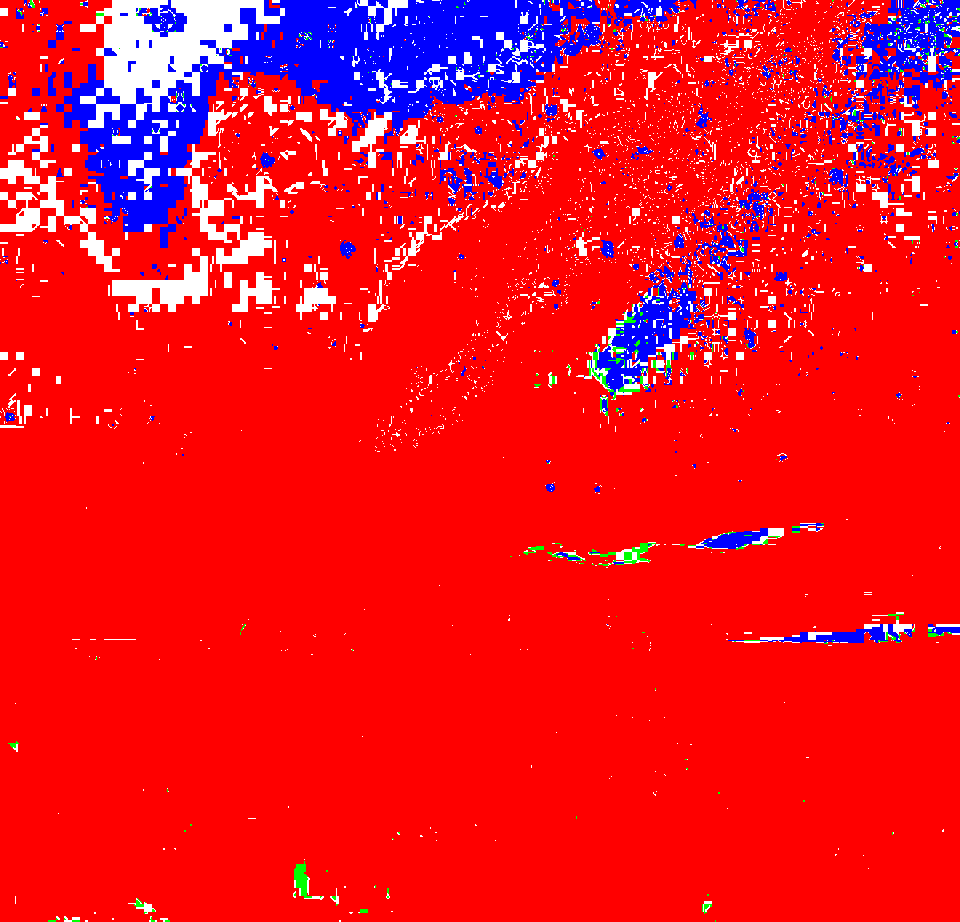
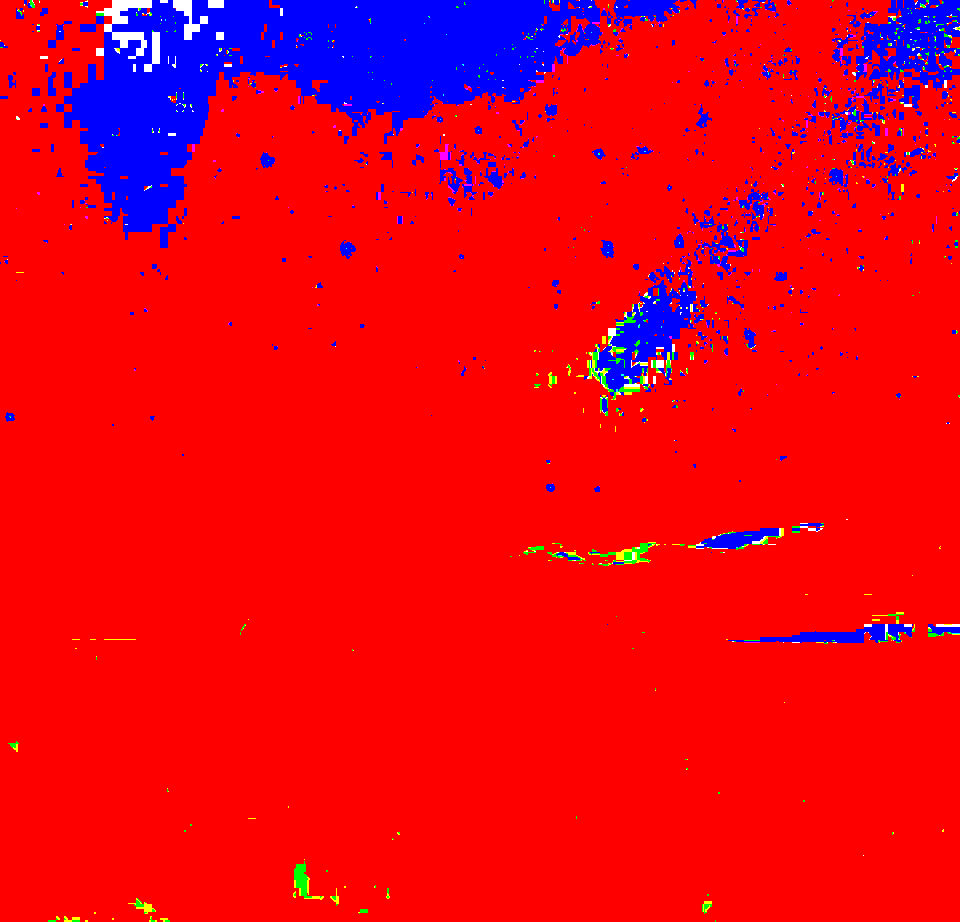
need to fix highlight yellow, purple, cyan

diff --git a/EDIT.py b/EDIT.py
@@ -5,103 +5,214 @@ class Edit:
     def HUE_IMG(IMG_NAME, HUE):
         IMG_PATH = f'output\\DIR-{IMG_NAME}\\{IMG_NAME}'
         IMG_BGR = cv2.imread(IMG_PATH)
+
         IMG_HSV = cv2.cvtColor(IMG_BGR, cv2.COLOR_BGR2HSV)
         IMG_HSV[..., 0] = (IMG_HSV[..., 0] + HUE) % 180
         IMG_BGR = cv2.cvtColor(IMG_HSV, cv2.COLOR_HSV2BGR)
+
         HUE_PATH = f'output\\DIR-{IMG_NAME}\\HUE\\HUE-{HUE}-{IMG_NAME}'
         cv2.imwrite(HUE_PATH, IMG_BGR)
 
     def RED_IMG(IMG_NAME):
         IMG_PATH = f'output\\DIR-{IMG_NAME}\\{IMG_NAME}'
         IMG_BGR = cv2.imread(IMG_PATH)
+
         B, G, R = cv2.split(IMG_BGR)
         B = np.clip(B * 0, 0, 255).astype(np.uint8)
         G = np.clip(G * 0, 0, 255).astype(np.uint8)
         IMG_RED = cv2.merge([B, G, R])
+
         RED_PATH = f'output\\DIR-{IMG_NAME}\\COL\\RED-{IMG_NAME}'
         cv2.imwrite(RED_PATH, IMG_RED)
 
     def GRE_IMG(IMG_NAME):
         IMG_PATH = f'output\\DIR-{IMG_NAME}\\{IMG_NAME}'
         IMG_BGR = cv2.imread(IMG_PATH)
+
         B, G, R = cv2.split(IMG_BGR)
         B = np.clip(B * 0, 0, 255).astype(np.uint8)
         R = np.clip(R * 0, 0, 255).astype(np.uint8)
         IMG_GRE = cv2.merge([B, G, R])
+
         GRE_PATH = f'output\\DIR-{IMG_NAME}\\COL\\GRE-{IMG_NAME}'
         cv2.imwrite(GRE_PATH, IMG_GRE)
 
     def BLU_IMG(IMG_NAME):
         IMG_PATH = f'output\\DIR-{IMG_NAME}\\{IMG_NAME}'
         IMG_BGR = cv2.imread(IMG_PATH)
+
         B, G, R = cv2.split(IMG_BGR)
         G = np.clip(G * 0, 0, 255).astype(np.uint8)
         R = np.clip(R * 0, 0, 255).astype(np.uint8)
         IMG_BLU = cv2.merge([B, G, R])
+
         BLU_PATH = f'output\\DIR-{IMG_NAME}\\COL\\BLU-{IMG_NAME}'
         cv2.imwrite(BLU_PATH, IMG_BLU)
-
-    def PUR_IMG(IMG_NAME):
-        IMG_PATH = f'output\\DIR-{IMG_NAME}\\{IMG_NAME}'
-        IMG_BGR = cv2.imread(IMG_PATH)
-        B, G, R = cv2.split(IMG_BGR)
-        G = np.clip(G * 0, 0, 255).astype(np.uint8)
-        IMG_PUR = cv2.merge([B, G, R])
-        PUR_PATH = f'output\\DIR-{IMG_NAME}\\COL\\PUR-{IMG_NAME}'
-        cv2.imwrite(PUR_PATH, IMG_PUR)
 
     def YEL_IMG(IMG_NAME):
         IMG_PATH = f'output\\DIR-{IMG_NAME}\\{IMG_NAME}'
         IMG_BGR = cv2.imread(IMG_PATH)
+
         B, G, R = cv2.split(IMG_BGR)
         B = np.clip(B * 0, 0, 255).astype(np.uint8)
         IMG_YEL = cv2.merge([B, G, R])
+
         YEL_PATH = f'output\\DIR-{IMG_NAME}\\COL\\YEL-{IMG_NAME}'
         cv2.imwrite(YEL_PATH, IMG_YEL)
+
+    def PUR_IMG(IMG_NAME):
+        IMG_PATH = f'output\\DIR-{IMG_NAME}\\{IMG_NAME}'
+        IMG_BGR = cv2.imread(IMG_PATH)
+
+        B, G, R = cv2.split(IMG_BGR)
+        G = np.clip(G * 0, 0, 255).astype(np.uint8)
+        IMG_PUR = cv2.merge([B, G, R])
+
+        PUR_PATH = f'output\\DIR-{IMG_NAME}\\COL\\PUR-{IMG_NAME}'
+        cv2.imwrite(PUR_PATH, IMG_PUR)
 
     def CYA_IMG(IMG_NAME):
         IMG_PATH = f'output\\DIR-{IMG_NAME}\\{IMG_NAME}'
         IMG_BGR = cv2.imread(IMG_PATH)
+
         B, G, R = cv2.split(IMG_BGR)
         R = np.clip(R * 0, 0, 255).astype(np.uint8)
         IMG_CYA = cv2.merge([B, G, R])
+
         CYA_PATH = f'output\\DIR-{IMG_NAME}\\COL\\CYA-{IMG_NAME}'
         cv2.imwrite(CYA_PATH, IMG_CYA)
-
-    def HLT_RED_IMG(IMG_NAME):
-        IMG_PATH = f'output\\DIR-{IMG_NAME}\\{IMG_NAME}'
-        IMG_BGR = cv2.imread(IMG_PATH)
-        HLT_RED = (IMG_BGR[:, :, 0] > IMG_BGR[:, :, 1]) & (IMG_BGR[:, :, 0] > IMG_BGR[:, :, 2])
-        IMG_BGR[HLT_RED] = [255, 0, 0]
-        HLT_RED_PATH = f'output\\DIR-{IMG_NAME}\\HLT\\HLT_RED-{IMG_NAME}'
-        cv2.imwrite(HLT_RED_PATH, IMG_BGR)
-
-    def HLT_GRE_IMG(IMG_NAME):
-        IMG_PATH = f'output\\DIR-{IMG_NAME}\\{IMG_NAME}'
-        IMG_BGR = cv2.imread(IMG_PATH)
-        HLT_GRE = (IMG_BGR[:, :, 1] > IMG_BGR[:, :, 0]) & (IMG_BGR[:, :, 1] > IMG_BGR[:, :, 2])
-        IMG_BGR[HLT_GRE] = [0, 255, 0]
-        HLT_GRE_PATH = f'output\\DIR-{IMG_NAME}\\HLT\\HLT_GRE-{IMG_NAME}'
-        cv2.imwrite(HLT_GRE_PATH, IMG_BGR)
 
     def HLT_BLU_IMG(IMG_NAME):
         IMG_PATH = f'output\\DIR-{IMG_NAME}\\{IMG_NAME}'
         IMG_BGR = cv2.imread(IMG_PATH)
-        HLT_BLU = (IMG_BGR[:, :, 2] > IMG_BGR[:, :, 0]) & (IMG_BGR[:, :, 2] > IMG_BGR[:, :, 1])
-        IMG_BGR[HLT_BLU] = [0, 0, 255]
+
+        B = IMG_BGR[:, :, 0]
+        G = IMG_BGR[:, :, 1]
+        R = IMG_BGR[:, :, 2]
+
+        HLT_BLU = (B > G) & (B > R)
+        IMG_BGR[HLT_BLU] = [255, 0, 0]
+
         HLT_BLU_PATH = f'output\\DIR-{IMG_NAME}\\HLT\\HLT_BLU-{IMG_NAME}'
         cv2.imwrite(HLT_BLU_PATH, IMG_BGR)
+
+    def HLT_GRE_IMG(IMG_NAME):
+        IMG_PATH = f'output\\DIR-{IMG_NAME}\\{IMG_NAME}'
+        IMG_BGR = cv2.imread(IMG_PATH)
+
+        B = IMG_BGR[:, :, 0]
+        G = IMG_BGR[:, :, 1]
+        R = IMG_BGR[:, :, 2]
+
+        HLT_GRE = (G > B) & (G > R)
+        IMG_BGR[HLT_GRE] = [0, 255, 0]
+        
+        HLT_GRE_PATH = f'output\\DIR-{IMG_NAME}\\HLT\\HLT_GRE-{IMG_NAME}'
+        cv2.imwrite(HLT_GRE_PATH, IMG_BGR)
+
+    def HLT_RED_IMG(IMG_NAME):
+        IMG_PATH = f'output\\DIR-{IMG_NAME}\\{IMG_NAME}'
+        IMG_BGR = cv2.imread(IMG_PATH)
+
+        B = IMG_BGR[:, :, 0]
+        G = IMG_BGR[:, :, 1]
+        R = IMG_BGR[:, :, 2]
+
+        HLT_RED = (R > B) & (R > G)
+        IMG_BGR[HLT_RED] = [0, 0, 255]
+
+        HLT_RED_PATH = f'output\\DIR-{IMG_NAME}\\HLT\\HLT_RED-{IMG_NAME}'
+        cv2.imwrite(HLT_RED_PATH, IMG_BGR)
+
+    def HLT_YEL_IMG(IMG_NAME):
+        IMG_PATH = f'output\\DIR-{IMG_NAME}\\{IMG_NAME}'
+        IMG_BGR = cv2.imread(IMG_PATH)
+
+        B = IMG_BGR[:, :, 0]
+        G = IMG_BGR[:, :, 1]
+        R = IMG_BGR[:, :, 2]
+
+        MJR_YEL = (G > B) & (R > B)
+        DIF_RED_GRE = np.abs(R - G)
+        DIF_GRE_BLU = np.abs(G - B)
+        DIF_RED_BLU = np.abs(R - B)
+
+        HLT_YEL = MJR_YEL & (DIF_RED_GRE < DIF_GRE_BLU) & (DIF_RED_GRE < DIF_RED_BLU)
+        IMG_BGR[HLT_YEL] = [0, 255, 255]
+
+        HLT_YEL_PATH = f'output\\DIR-{IMG_NAME}\\HLT\\HLT_YEL-{IMG_NAME}'
+        cv2.imwrite(HLT_YEL_PATH, IMG_BGR)
+
+    def HLT_PUR_IMG(IMG_NAME):
+        IMG_PATH = f'output\\DIR-{IMG_NAME}\\{IMG_NAME}'
+        IMG_BGR = cv2.imread(IMG_PATH)
+
+        B = IMG_BGR[:, :, 0]
+        G = IMG_BGR[:, :, 1]
+        R = IMG_BGR[:, :, 2]
+
+        MJR_PUR = (B > G) & (R > G)
+        DIF_RED_GRE = np.abs(R - G)
+        DIF_GRE_BLU = np.abs(G - B)
+        DIF_RED_BLU = np.abs(R - B)
+
+        HLT_PUR = MJR_PUR & (DIF_RED_BLU < DIF_GRE_BLU) & (DIF_RED_BLU < DIF_RED_GRE)
+        IMG_BGR[HLT_PUR] = [255, 0, 255]
+
+        HLT_PUR_PATH = f'output\\DIR-{IMG_NAME}\\HLT\\HLT_PUR-{IMG_NAME}'
+        cv2.imwrite(HLT_PUR_PATH, IMG_BGR)
+
+    def HLT_CYA_IMG(IMG_NAME):
+        IMG_PATH = f'output\\DIR-{IMG_NAME}\\{IMG_NAME}'
+        IMG_BGR = cv2.imread(IMG_PATH)
+
+        B = IMG_BGR[:, :, 0]
+        G = IMG_BGR[:, :, 1]
+        R = IMG_BGR[:, :, 2]
+
+        MJR_CYA = (B > R) & (G > R)
+        DIF_RED_GRE = np.abs(R - G)
+        DIF_GRE_BLU = np.abs(G - B)
+        DIF_RED_BLU = np.abs(R - B)
+
+        HLT_CYA = MJR_CYA & (DIF_GRE_BLU < DIF_RED_GRE) & (DIF_GRE_BLU < DIF_RED_BLU)
+        IMG_BGR[HLT_CYA] = [255, 255, 0]
+
+        HLT_CYA_PATH = f'output\\DIR-{IMG_NAME}\\HLT\\HLT_CYA-{IMG_NAME}'
+        cv2.imwrite(HLT_CYA_PATH, IMG_BGR)
 
     def HLT_ALL_IMG(IMG_NAME):
         IMG_PATH = f'output\\DIR-{IMG_NAME}\\{IMG_NAME}'
         IMG_BGR = cv2.imread(IMG_PATH)
-        HLT_RED = (IMG_BGR[:, :, 0] > IMG_BGR[:, :, 1]) & (IMG_BGR[:, :, 0] > IMG_BGR[:, :, 2])
-        HLT_GRE = (IMG_BGR[:, :, 1] > IMG_BGR[:, :, 0]) & (IMG_BGR[:, :, 1] > IMG_BGR[:, :, 2])
-        HLT_BLU = (IMG_BGR[:, :, 2] > IMG_BGR[:, :, 0]) & (IMG_BGR[:, :, 2] > IMG_BGR[:, :, 1])
-        HLT_EQL = (IMG_BGR[:, :, 0] == IMG_BGR[:, :, 1]) | (IMG_BGR[:, :, 1] == IMG_BGR[:, :, 2]) | (IMG_BGR[:, :, 2] == IMG_BGR[:, :, 0])
-        IMG_BGR[HLT_RED] = [255, 0, 0]
+
+        B = IMG_BGR[:, :, 0]
+        G = IMG_BGR[:, :, 1]
+        R = IMG_BGR[:, :, 2]
+
+        HLT_BLU = (B > G) & (B > R)
+        HLT_GRE = (G > B) & (G > R)
+        HLT_RED = (R > B) & (R > G)
+        HLT_EQL = (B == G) & (G == R)
+
+        MJR_YEL = (G > B) & (R > B)
+        MJR_CYA = (B > R) & (G > R)
+        MJR_PUR = (B > G) & (R > G)
+        DIF_RED_GRE = np.abs(R - G)
+        DIF_GRE_BLU = np.abs(G - B)
+        DIF_RED_BLU = np.abs(R - B)
+
+        HLT_YEL = MJR_YEL & (DIF_RED_GRE < DIF_GRE_BLU) & (DIF_RED_GRE < DIF_RED_BLU)
+        HLT_PUR = MJR_PUR & (DIF_RED_BLU < DIF_RED_GRE) & (DIF_RED_BLU < DIF_GRE_BLU)
+        HLT_CYA = MJR_CYA & (DIF_GRE_BLU < DIF_RED_GRE) & (DIF_GRE_BLU < DIF_RED_BLU)
+
+        IMG_BGR[HLT_YEL] = [0, 255, 255]
+        IMG_BGR[HLT_PUR] = [255, 0, 255]
+        IMG_BGR[HLT_CYA] = [255, 255, 0]
+
+        IMG_BGR[HLT_BLU] = [255, 0, 0]
         IMG_BGR[HLT_GRE] = [0, 255, 0]
-        IMG_BGR[HLT_BLU] = [0, 0, 255]
+        IMG_BGR[HLT_RED] = [0, 0, 255]
         IMG_BGR[HLT_EQL] = [255, 255, 255]
+
         HLT_ALL_PATH = f'output\\DIR-{IMG_NAME}\\HLT\\HLT_ALL-{IMG_NAME}'
         cv2.imwrite(HLT_ALL_PATH, IMG_BGR)

diff --git a/Control.py b/Control.py
@@ -1,8 +1,28 @@
+import os
+import shutil
 from APOD import APOD
 from Edit import Edit
 
 if __name__ == "__main__":
-    IMG_NAME = APOD.GET_APOD()
+    IMG_NAME = 'TEST_IMAGE_1.png'
+    DEBUG_PATH = 'output'
+    _DBG_ = input("Debug? (Y / N): ")
+    if _DBG_.lower() == 'y':
+        if not os.path.exists(os.path.join(DEBUG_PATH, f'DIR-{IMG_NAME}')):
+                os.makedirs(os.path.join(DEBUG_PATH, f'DIR-{IMG_NAME}'))
+        
+        if not os.path.exists(os.path.join(os.path.join(DEBUG_PATH, f'DIR-{IMG_NAME}'), 'HUE')):
+            os.makedirs(os.path.join(os.path.join(DEBUG_PATH, f'DIR-{IMG_NAME}'), 'HUE'))
+        
+        if not os.path.exists(os.path.join(os.path.join(DEBUG_PATH, f'DIR-{IMG_NAME}'), 'COL')):
+            os.makedirs(os.path.join(os.path.join(DEBUG_PATH, f'DIR-{IMG_NAME}'), 'COL'))
+        
+        if not os.path.exists(os.path.join(os.path.join(DEBUG_PATH, f'DIR-{IMG_NAME}'), 'HLT')):
+            os.makedirs(os.path.join(os.path.join(DEBUG_PATH, f'DIR-{IMG_NAME}'), 'HLT'))
+        
+        shutil.copy(IMG_NAME, os.path.join(os.path.join(os.path.join(DEBUG_PATH, f'DIR-{IMG_NAME}'), IMG_NAME)))
+    else:
+        IMG_NAME = APOD.GET_APOD()
     
     _HUE_ = input("Hue specturm? (Y / N): ")
     if _HUE_.lower() == 'y':
@@ -14,13 +34,34 @@ if __name__ == "__main__":
         Edit.RED_IMG(IMG_NAME)
         Edit.GRE_IMG(IMG_NAME)
         Edit.BLU_IMG(IMG_NAME)
+        Edit.CYA_IMG(IMG_NAME)
         Edit.PUR_IMG(IMG_NAME)
         Edit.YEL_IMG(IMG_NAME)
-        Edit.CYA_IMG(IMG_NAME)
 
     _HLT_ = input("Highlight color channels? (Y / N): ")
     if _HLT_.lower() == 'y':
         Edit.HLT_RED_IMG(IMG_NAME)
         Edit.HLT_GRE_IMG(IMG_NAME)
         Edit.HLT_BLU_IMG(IMG_NAME)
+        Edit.HLT_CYA_IMG(IMG_NAME)
+        Edit.HLT_PUR_IMG(IMG_NAME)
+        Edit.HLT_YEL_IMG(IMG_NAME)
         Edit.HLT_ALL_IMG(IMG_NAME)
+
+        _BAL_ = input("Calculate color balance? (Y / N): ")
+        # if _BAL_.lower() == 'y':
+        
+
+# hlt cya(),pur,yel)
+# - check abs(g-b) > abs(b-r) & abs(r-g)
+# - override existing r, g, b hlt pixels
+
+# hlt all
+# - check r = g = b
+
+# inv all
+# - [255 - r, 255 - g, 255 - b]
+
+# bal
+# - txt: lower better, find ranges for good/okay/poor: std dev of # of r, y, g, c, b, p (not n/a) pixels after hlt
+# - txt: % each color (including %n/a)

diff --git a/APOD.py b/APOD.py
@@ -39,7 +39,7 @@ class APOD:
             if not os.path.exists(APOD.RESOURCES_PATH):
                 os.makedirs(APOD.RESOURCES_PATH)
             
-            IMG_NAME = f"{NAME.upper().replace(' ', '_')}.png"
+            IMG_NAME = f"{NAME.upper().replace(' ', '_').replace('-', '_')}.png"
             
             if not os.path.exists(os.path.join(APOD.RESOURCES_PATH, f'DIR-{IMG_NAME}')):
                 os.makedirs(os.path.join(APOD.RESOURCES_PATH, f'DIR-{IMG_NAME}'))
